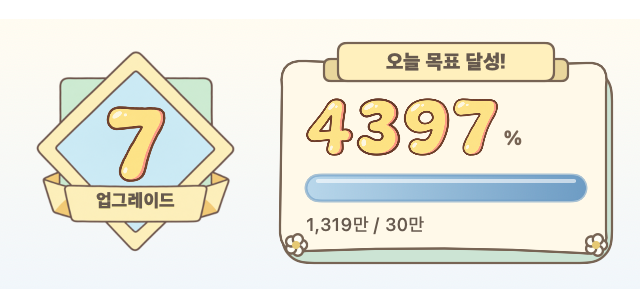
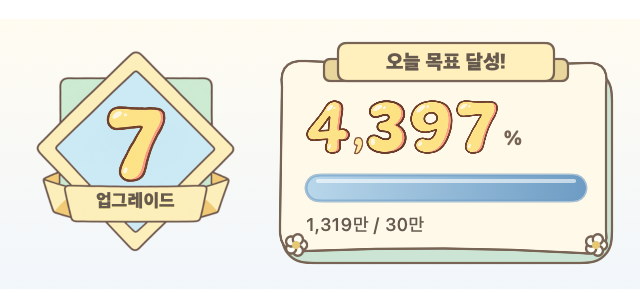
Group illustrated numbers and prepare verified notarization pipeline

Changed region(s): [[0.4688, 0.3214, 0.7812, 0.526]]

diff --git a/Sources/ChiiBar/IllustratedNumber.swift b/Sources/ChiiBar/IllustratedNumber.swift
@@ -10,21 +10,41 @@ struct IllustratedNumber: View {
         let images = NumberArtwork.images(for: max(0, count))
         Canvas { context, size in
             guard !images.isEmpty else { return }
-            let heights = images.map { CGFloat($0.height) }
-            let naturalWidths = images.enumerated().map { CGFloat($0.element.width) / heights[$0.offset] }
+            let naturalWidths = images.map { image -> CGFloat in
+                guard let image else { return 0.18 }
+                return CGFloat(image.width) / CGFloat(image.height)
+            }
             let gap: CGFloat = images.count > 1 ? 0.06 : 0
             let total = naturalWidths.reduce(0, +) + gap * CGFloat(images.count - 1)
             let height = min(size.height, size.width / total)
             var x = (size.width - total * height) / 2
             for (index, image) in images.enumerated() {
                 let width = naturalWidths[index] * height
-                context.draw(Image(decorative: image, scale: 1),
-                             in: CGRect(x: x, y: (size.height - height) / 2, width: width, height: height))
+                if let image {
+                    context.draw(Image(decorative: image, scale: 1),
+                        in: CGRect(x: x, y: (size.height - height) / 2, width: width, height: height))
+                } else {
+                    let y = (size.height - height) / 2
+                    var comma = Path()
+                    comma.move(to: CGPoint(x: x + width * 0.25, y: y + height * 0.71))
+                    comma.addCurve(to: CGPoint(x: x + width * 0.8, y: y + height * 0.91),
+                        control1: CGPoint(x: x + width, y: y + height * 0.65),
+                        control2: CGPoint(x: x + width * 1.1, y: y + height * 0.81))
+                    comma.addQuadCurve(to: CGPoint(x: x + width * 0.15, y: y + height * 0.99),
+                        control: CGPoint(x: x + width * 0.5, y: y + height * 1.02))
+                    comma.addLine(to: CGPoint(x: x + width * 0.4, y: y + height * 0.84))
+                    comma.addQuadCurve(to: CGPoint(x: x + width * 0.25, y: y + height * 0.71),
+                        control: CGPoint(x: x - width * 0.1, y: y + height * 0.84))
+                    comma.closeSubpath()
+                    context.fill(comma, with: .color(Ink.rgb(0xFFE7A0)))
+                    context.stroke(comma, with: .color(Ink.rgb(0x8B573E)),
+                        style: StrokeStyle(lineWidth: max(0.65, height * 0.025), lineJoin: .round))
+                }
                 x += width + gap * height
             }
         }
-        .frame(width: width ?? (count < 10 ? 38 : 60), height: height)
-        .accessibilityLabel("\(count)")
+        .frame(width: width ?? (count < 10 ? 38 : count < 1000 ? 60 : 80), height: height)
+        .accessibilityLabel(count.formatted())
     }
 }
 
@@ -38,10 +58,12 @@ private enum NumberArtwork {
         return (Bundle.main.resourceURL ?? Bundle.main.bundleURL).appendingPathComponent("StampNumbers")
     }()
 
-    static func images(for count: Int) -> [CGImage] {
+    static func images(for count: Int) -> [CGImage?] {
         if count <= 30, let image = image(count) { return [image] }
-        var result: [CGImage] = []
-        for digit in String(count) {
+        var result: [CGImage?] = []
+        let digits = Array(String(count))
+        for (index, digit) in digits.enumerated() {
+            if index > 0 && (digits.count - index).isMultiple(of: 3) { result.append(nil) }
             if let value = digit.wholeNumberValue, let artwork = image(value) { result.append(artwork) }
         }
         return result

diff --git a/docs/notarization.md b/docs/notarization.md
@@ -1,0 +1,30 @@
+# 정식 Mac 배포 서명과 공증
+
+2026-10-16 기준 ChiiBar의 정식 서명·공증 준비 상태와 배포 절차다. 현재 공개 0.4.16는 ad-hoc 서명이며 공증되지 않았다.
+
+## 확인 결과
+
+- 로컬 배포 인증서 없음: 유효한 codesigning identity 0개.
+- 기존 앱: ad-hoc 서명, TeamIdentifier 없음.
+- 로컬 Gatekeeper 평가: rejected.
+- 따라서 친구 Mac에서 보안 경고 없이 실행되는 상태라고 안내할 수 없다. 경고의 정확한 문구에 따라 다른 원인도 있을 수 있다.
+
+## 필요한 준비
+
+사용자 소유 Apple Developer Program 계정의 Developer ID Application 인증서와 해당 개인 키가 Mac 키체인에 설치되어 있어야 한다. Apple 계정 로그인, 유료 등록·약관 동의, 인증서 접근 권한은 계정 소유자가 처리해야 한다. 자격 증명은 저장소나 채팅에 넣지 않는다. 기존 notarytool 키체인 프로필을 사용한다.
+
+## 배포 순서
+
+1. `CHIIBAR_SIGN_IDENTITY`에 키체인의 Developer ID Application 인증서 이름을 지정하고, `CHIIBAR_UNIVERSAL=1 bash Scripts/build-app.sh`로 빌드한다. 이 경로는 hardened runtime과 timestamp를 사용한다.
+2. `CHIIBAR_NOTARY_PROFILE`에 기존 키체인 프로필 이름을 지정하고 `bash Scripts/notarize-app.sh`를 실행한다.
+3. 스크립트는 Developer ID 서명과 hardened runtime을 확인한 다음 Apple에 제출한다. Accepted 결과에만 공증 티켓을 앱에 붙인다.
+4. 티켓 검증, 코드 서명 검증, Gatekeeper 평가를 모두 통과한 뒤 `-notarized-universal.zip` 파일을 만든다. 이 최종 파일과 체크섬만 릴리스·Homebrew에 반영한다.
+5. 다른 Mac에서 Homebrew/브라우저로 새로 내려받아 최초 실행을 확인한다. 로컬 빌드 실행만으로 다운로드 차단 해결을 확정하지 않는다.
+
+기존 ad-hoc ZIP에 서명만 덮어쓰고 같은 버전·체크섬을 재사용하지 않는다. 격리 속성 삭제와 Gatekeeper 비활성화는 해결 방법으로 사용하지 않는다.
+
+## 검증 범위
+
+현재는 셸 문법 검사와 미설정 프로필·ad-hoc 서명 거부 확인까지 수행했다. 실제 Developer ID 서명, Apple 제출, Accepted 수신, stapling, Gatekeeper 통과는 인증서 준비 후 수행해야 한다.
+
+출처(2026-10-16 확인): [Apple Developer ID](https://developer.apple.com/developer-id/), [Apple 공증 안내](https://developer.apple.com/documentation/security/notarizing-macos-software-before-distribution).
